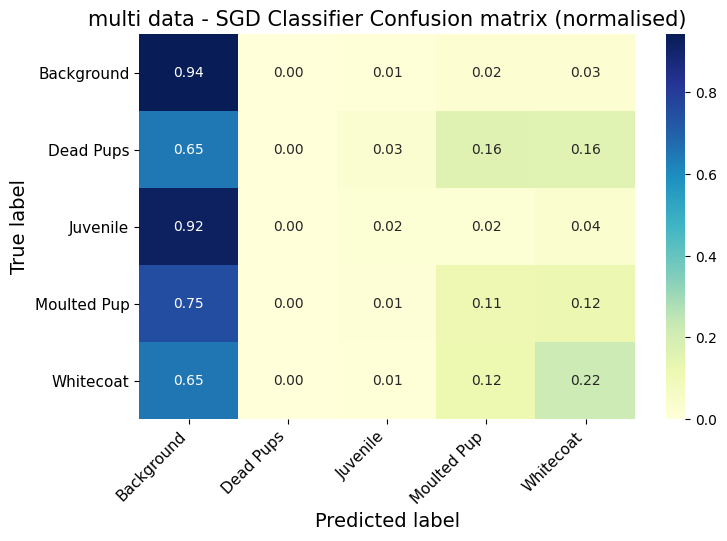
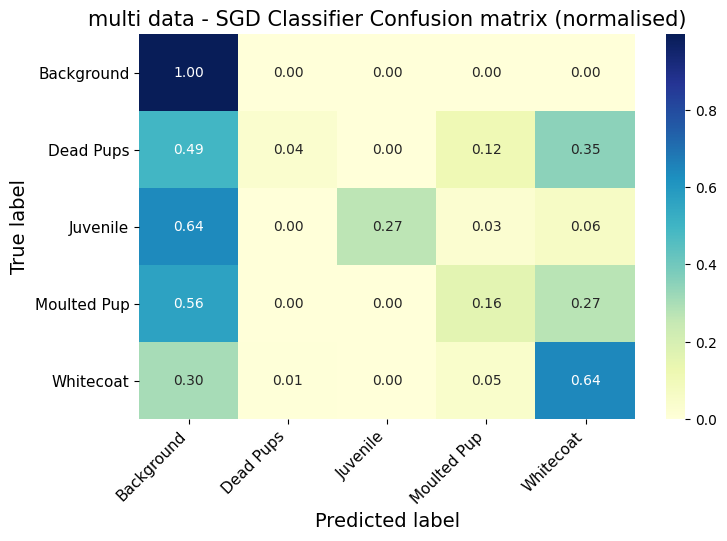
Apply standard scaling + PCA to input data

diff --git a/src/data_manipulations.py b/src/data_manipulations.py
@@ -1,0 +1,91 @@
+import matplotlib.pyplot as plt
+import numpy as np
+import pandas as pd
+from pyspin.spin import Box1, make_spin
+from sklearn.preprocessing import StandardScaler
+from sklearn.decomposition import PCA
+
+import src.config as config
+from src.helpers import is_file_exists, save_plot
+
+
+@make_spin(Box1, "Loading data into memory...")
+def load_data(dataset):
+    # If PKL format already exists for the data, load it for quicker loading times
+    #   (generate it by uncommenting the call to save_df_to_pickle).
+    if is_file_exists("../data/{}/X_train.pkl".format(dataset)):
+        X_train = pd.read_pickle("../data/{}/X_train.pkl".format(dataset))
+        y_train = pd.read_pickle("../data/{}/y_train.pkl".format(dataset))
+        print("\nData loaded from 'X_train.pkl' and 'y_train.pkl'")
+    # If PKL format not found, loads CSV file into memory (slower loadings times).
+    else:
+        X_train = pd.read_csv("../data/{}/X_train.csv".format(dataset), header=None)
+        y_train = pd.read_csv("../data/{}/Y_train.csv".format(dataset), header=None)
+        print("\nData loaded from 'X_train.csv' and 'y_train.csv'")
+    return X_train, y_train
+
+
+def split_features(X_train):
+    # First 900 columns = HoG extracted from the image (10×10 px cells, 9 orientations, 2×2 blocks).
+    X_train_HoG = X_train.iloc[:, :900]
+
+    # Next 16 columns drawn from a normal distribution (µ = 0.5, σ = 2)
+    X_train_normal_dist = X_train.iloc[:, 900:916]
+
+    # Last 48 columns correspond to RGB colour histograms extracted from the same image with 16 bins per channel.
+    X_train_colour_hists = X_train.iloc[:, 916:]
+
+    return X_train_HoG, X_train_normal_dist, X_train_colour_hists
+
+
+@make_spin(Box1, "Transforming features...")
+def input_preparation(X_train, variance=0.99):
+    # Standard scale inputs
+    std_scaler = StandardScaler()
+    X_train_scaled = std_scaler.fit_transform(X_train)
+    X_train_df = pd.DataFrame(X_train_scaled, columns=X_train.columns.values)
+
+    pca = PCA(n_components=487)  # n_components is determined by running the code below.
+    X_train_reduced = pca.fit_transform(X_train_df)
+
+    if config.verbose_mode:
+        print("Dataset size before PCA: {}".format(X_train_df.shape))
+        print("Dataset size after PCA: {}".format(X_train_reduced.shape))
+
+    # Determine the number of dimensions to reduce the data to.
+    if config.verbose_mode:
+        # Perform PCA without reducing dimensionality
+        pca = PCA()
+        pca.fit(X_train_df)
+        cumsum = np.cumsum(pca.explained_variance_ratio_)
+        d = np.argmax(cumsum >= variance) + 1
+        print("Dimensions to reduce to to preserve 99% explained variance: d={}\n".format(d))
+
+        # Modified plot code, originally from Hands-On ML jupyter notebook, chapter 08 (In [35])
+        # source: https://github.com/ageron/handson-ml2/blob/master/08_dimensionality_reduction.ipynb
+        plt.figure(figsize=(6, 4))
+        plt.plot(cumsum, linewidth=2, color="green")
+        plt.axis([0, 964, 0, 1])
+        plt.xlabel("Dimensions")
+        plt.ylabel("Explained Variance")
+        plt.plot([d, d], [0, variance], "k:", color="green", alpha=0.5)
+        plt.plot([0, d], [variance, variance], "k:", color="green", alpha=0.5)
+        plt.plot(d, variance, "ko")
+        plt.grid(True)
+        save_plot("explained_variance_plot_{}".format(config.dataset))
+        plt.show()
+
+    print("\nFeatures transformed using standard scaling and reduced using PCA")
+    return X_train_reduced
+
+
+def output_preparation(y_train):
+    if config.dataset == "binary":
+        # Convert class ID output to boolean integer format for logistic regression:
+        #   1 if it's a "seal", 0 if it's a "background").
+        y_train = (y_train == "seal").astype(np.int)
+
+    # Get values in an array of shape (n,1) and then use ravel() to the convert that array shape to (n, ).
+    y_train_unravelled = y_train.values.ravel()
+
+    return y_train_unravelled, y_train

diff --git a/src/main.py b/src/main.py
@@ -1,12 +1,10 @@
 import argparse
 import time
 
-import numpy as np
-from pyspin.spin import Box1, make_spin
-
 from src.classifiers import Classifier
-from src.data_vis import *
-from src.helpers import is_file_exists, print_error_message, print_runtime, save_df_to_pickle
+from src.data_manipulations import *
+from src.data_visualisation import *
+from src.helpers import print_error_message, print_runtime, save_df_to_pickle
 
 
 def main() -> None:
@@ -24,30 +22,22 @@ def main() -> None:
     # Run this once to save the CSV files imported into DFs in PKL format for quicker loading times.
     # save_df_to_pickle(X_train, y_train, config.dataset)
 
-    # Split training dataset's features:
-    #   first 900 columns = HoG extracted from the image (10×10 px cells, 9 orientations, 2×2 blocks).
-    #   next 16 columns drawn from a normal distribution (µ = 0.5, σ = 2)
-    #   last 48 columns correspond to RGB colour histograms extracted from the same image with 16 bins per channel.
-    X_train_HoG = X_train.iloc[:, :900]
-    X_train_normal_dist = X_train.iloc[:, 900:916]
-    X_train_colour_hists = X_train.iloc[:, 916:]
-
     # Visualise data.
     if config.section == "data_vis":
-        # Start recording time.
         start_time = time.time()
-
+        # Split training dataset's features in 3 distinct DFs.
+        X_train_HoG, X_train_normal_dist, X_train_colour_hists = split_features(X_train)
+        # Visualise data.
         visualise_hog(X_train_HoG)
         visualise_rgb_hist(X_train_colour_hists)
         visualise_class_distribution(y_train)
         visualise_correlation(X_train, y_train)
-
-        # Print training runtime.
         print_runtime(round(time.time() - start_time, 2))
 
     # Train or test classification models.
     elif config.section == "train" or config.section == "test":
-        X, y, ground_truth = input_preparation(X_train, y_train)
+        X = input_preparation(X_train)
+        y, ground_truth = output_preparation(y_train)
         if config.section == "train":
             train_classification_models(X, y, ground_truth)
         elif config.section == "test":
@@ -97,39 +87,6 @@ def parse_command_line_arguments() -> None:
     config.model = args.model
     config.is_grid_search = args.gridsearch
     config.verbose_mode = args.verbose
-
-
-@make_spin(Box1, "Loading data into memory...")
-def load_data(dataset):
-    # If PKL format already exists for the data, load it for quicker loading times
-    #   (generate it by uncommenting the call to save_df_to_pickle).
-    if is_file_exists("../data/{}/X_train.pkl".format(dataset)):
-        X_train = pd.read_pickle("../data/{}/X_train.pkl".format(dataset))
-        y_train = pd.read_pickle("../data/{}/y_train.pkl".format(dataset))
-        print("\nData loaded from 'X_train.pkl' and 'y_train.pkl'")
-    # If PKL format not found, loads CSV file into memory (slower loadings times).
-    else:
-        X_train = pd.read_csv("../data/{}/X_train.csv".format(dataset), header=None)
-        y_train = pd.read_csv("../data/{}/Y_train.csv".format(dataset), header=None)
-        print("\nData loaded from 'X_train.csv' and 'y_train.csv'")
-    return X_train, y_train
-
-
-def input_preparation(X_train, y_train):
-    if config.dataset == "binary":
-        # Convert class ID output to boolean integer format for logistic regression:
-        #   1 if it's a "seal", 0 if it's a "background").
-        y_train = (y_train == "seal").astype(np.int)
-
-    # Get values in an array of shape (n,1) and then use ravel() to the convert that array shape to (n, ).
-    y_train_unravelled = y_train.values.ravel()
-
-    return X_train, y_train_unravelled, y_train
-
-
-def multi_input_preparation(X_train, y_train):
-    y_train_unravelled = y_train.values.ravel()
-    return X_train, y_train_unravelled
 
 
 def train_classification_models(X, y, ground_truth):

diff --git a/src/classifiers.py b/src/classifiers.py
@@ -39,7 +39,7 @@ class Classifier:
             elif model == "svc_lin":
                 self.clf = LinearSVC(**kwargs, max_iter=1000, tol=1e-3)
             elif model == "svc_poly":
-                self.clf = SVC(**kwargs, kernel='poly', degree=2, max_iter=1000)
+                self.clf = SVC(**kwargs, kernel='poly', degree=2, max_iter=10000)
             elif model == "dt":
                 self.clf = DecisionTreeClassifier(**kwargs, max_depth=5)
             elif model == "mlp":
